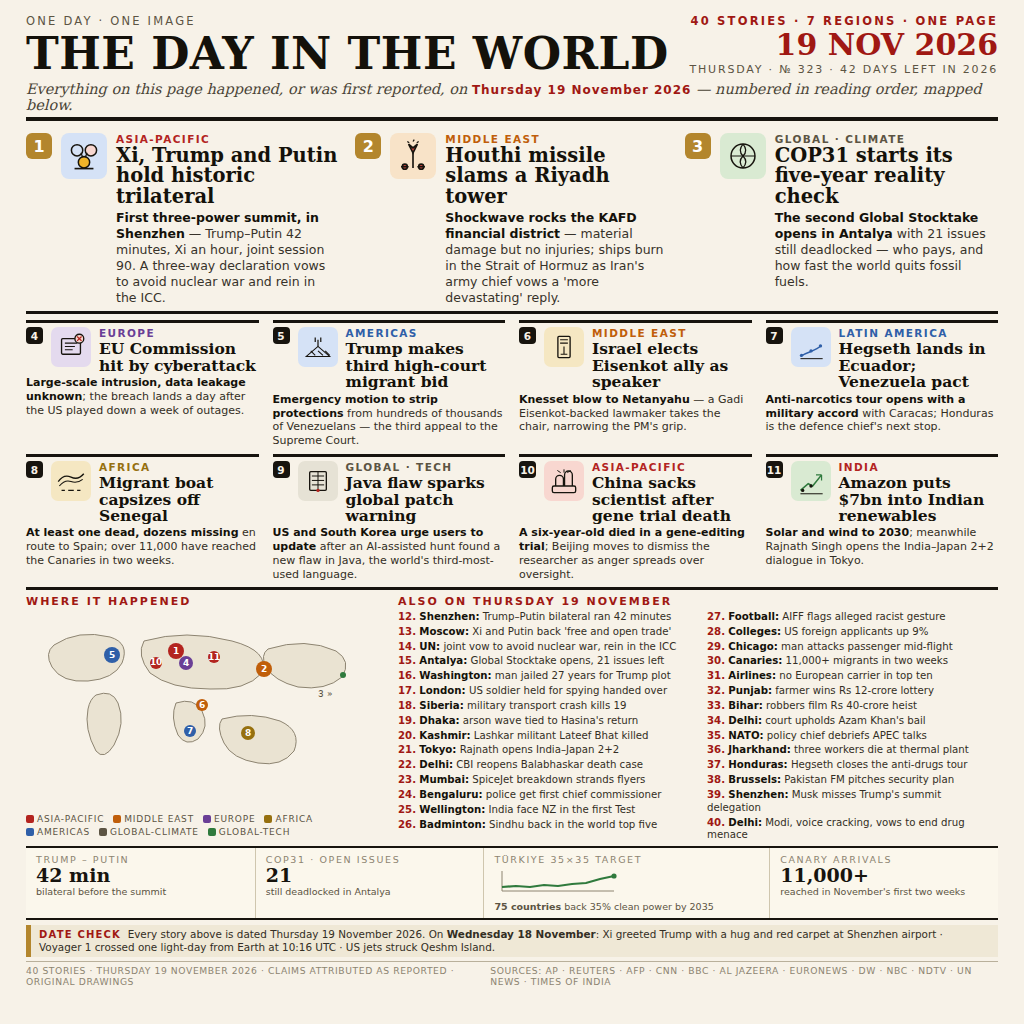
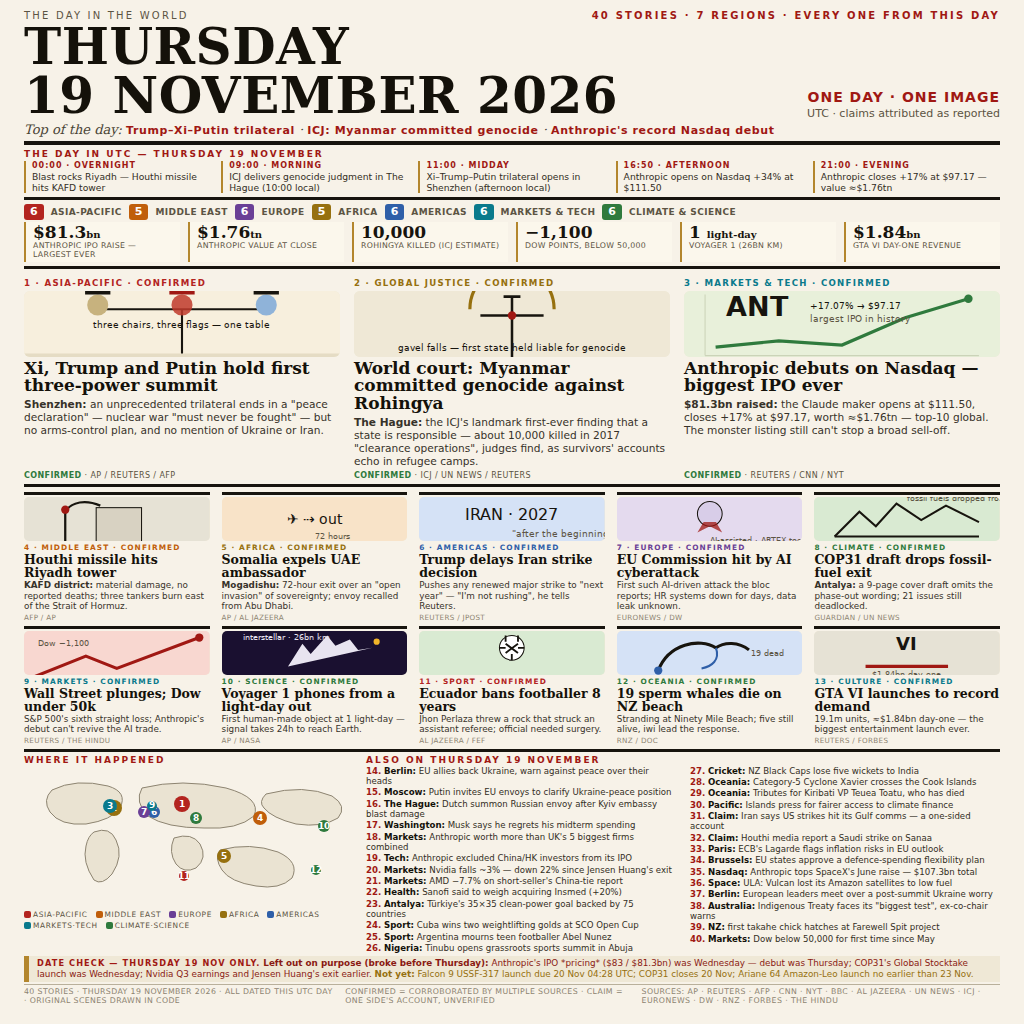
Rebuild entry with the day-discipline playbook: scene illustrations, UTC time strip, region-count strip, CONFIRMED/CLAIM trust tags, DATE CHECK box with left-out + not-yet lists; add ICJ genocide ruling, Anthropic IPO, Somalia-UAE expulsion, GTA VI, Wall St, Voyager, EU AI cyberattack, COP31 fossil-

diff --git a/design/news.html b/design/news.html
@@ -2,138 +2,283 @@
 <html lang="en">
 <head>
 <meta charset="utf-8">
-<title>The Day In The World — 19 Nov 2026</title>
+<title>The Day In The World — Thursday 19 November 2026</title>
 <style>
 *{margin:0;padding:0;box-sizing:border-box}
 html,body{width:1024px;height:1024px;overflow:hidden}
 body{font-family:'Liberation Serif',Georgia,'Times New Roman',serif;background:#f7f2e8;color:#14110a}
-.page{width:1024px;padding:14px 26px 6px}
+.page{width:1024px;padding:10px 24px 4px}
 
 .mast{border-bottom:4px solid #17140e;padding-bottom:4px}
-.kicker-row{display:flex;justify-content:space-between;align-items:baseline;font-family:'Liberation Sans',Arial,sans-serif;font-size:11.5px;letter-spacing:2.2px;color:#5c5443;text-transform:uppercase;margin-bottom:2px}
-.kicker-row b{color:#a01813}
-.title-row{display:flex;justify-content:space-between;align-items:flex-end}
-h1{font-size:44px;line-height:1;letter-spacing:.5px;font-weight:700}
-.dateline{text-align:right}
-.dateline .d1{font-size:30px;font-weight:700;color:#a01813;line-height:1}
-.dateline .d2{font-family:'Liberation Sans',Arial,sans-serif;font-size:11px;letter-spacing:1.8px;color:#5c5443;text-transform:uppercase;margin-top:3px}
-.subline{margin-top:5px;font-style:italic;font-size:14.5px;color:#4a4436}
-.subline b{color:#a01813;font-style:normal;letter-spacing:1px;font-family:'Liberation Sans',Arial,sans-serif;font-size:12px}
+.kicker{display:flex;justify-content:space-between;align-items:baseline;font-family:'Liberation Sans',Arial,sans-serif;font-size:10px;letter-spacing:2.2px;color:#5c5443;text-transform:uppercase;margin-bottom:1px}
+.kicker b{color:#a01813}
+h1{font-size:50px;line-height:.98;letter-spacing:.5px;font-weight:800}
+.dateline{font-size:14px;font-weight:700;color:#a01813;letter-spacing:1px;font-family:'Liberation Sans',Arial,sans-serif}
+.subline{margin-top:2px;font-style:italic;font-size:13px;color:#4a4436}
+.subline b{color:#a01813;font-style:normal;font-family:'Liberation Sans',Arial,sans-serif;font-size:11px;letter-spacing:.6px}
 
-.leads{display:grid;grid-template-columns:1fr 1fr 1fr;gap:0 16px;margin-top:6px;padding:6px 0 5px;border-bottom:3px solid #17140e}
-.lead{display:flex;gap:9px;align-items:flex-start}
-.lead .num{flex:0 0 26px;height:26px;background:#b3862d;color:#fff;border-radius:6px;display:flex;align-items:center;justify-content:center;font-family:'Liberation Sans',Arial,sans-serif;font-size:16px;font-weight:700}
-.lead .ico{flex:0 0 46px;height:46px;border-radius:8px;display:flex;align-items:center;justify-content:center}
-.lead .txt{flex:1;min-width:0}
-.lead h2{font-size:19.5px;line-height:1.05;margin:1px 0 3px;font-weight:700}
-.lead .body{font-family:'Liberation Sans',Arial,sans-serif;font-size:12.5px;line-height:1.28;color:#37322a}
-.lead .body b{color:#14110a}
+.utc{margin-top:4px;border-bottom:3px solid #17140e;padding-bottom:4px}
+.utc .lbl{font-family:'Liberation Sans',Arial,sans-serif;font-size:9px;font-weight:700;letter-spacing:2px;color:#a01813;text-transform:uppercase;margin-bottom:2px}
+.utc .slots{display:grid;grid-template-columns:repeat(5,1fr);gap:0 10px}
+.utc .slot{font-family:'Liberation Sans',Arial,sans-serif;font-size:9.2px;line-height:1.2;color:#332e24;border-left:2px solid #b3862d;padding-left:6px}
+.utc .slot b{display:block;font-size:8px;letter-spacing:1px;text-transform:uppercase;color:#a01813}
 
-.tag{font-family:'Liberation Sans',Arial,sans-serif;font-size:10.5px;font-weight:700;letter-spacing:1.4px;text-transform:uppercase}
-.r-apac{color:#b3241f}.r-mideast{color:#c05e0a}.r-europe{color:#6a3f96}.r-africa{color:#96700f}.r-americas{color:#2f5fa8}.r-global{color:#5c5443}.r-space{color:#2f7a3d}
+.region{margin-top:4px;border-bottom:3px solid #17140e;padding-bottom:4px}
+.region .row{display:flex;align-items:baseline;gap:7px;margin-bottom:2px;font-family:'Liberation Sans',Arial,sans-serif;flex-wrap:wrap}
+.region .cnt{font-size:11px;font-weight:700;padding:0 6px;border-radius:3px;color:#fff;line-height:1.5}
+.region .cnt.a{background:#b3241f}.region .cnt.b{background:#c05e0a}.region .cnt.c{background:#6a3f96}.region .cnt.d{background:#96700f}.region .cnt.e{background:#2f5fa8}.region .cnt.f{background:#0a7a8c}.region .cnt.g{background:#2f7a3d}
+.region .nm{font-size:9px;letter-spacing:.4px;color:#5c5443;text-transform:uppercase;font-weight:700}
+.bignums{display:grid;grid-template-columns:repeat(6,1fr);gap:0 8px}
+.big{padding:2px 7px 2px;background:#fbf7ec;border-left:2px solid #b3862d}
+.big .v{font-size:17px;font-weight:800;line-height:1;color:#17140e}
+.big .v small{font-size:10px;font-weight:700}
+.big .c{font-family:'Liberation Sans',Arial,sans-serif;font-size:7.8px;color:#5c5443;line-height:1.12;margin-top:1px;text-transform:uppercase;letter-spacing:.3px}
 
-.grid{display:grid;grid-template-columns:1fr 1fr 1fr 1fr;gap:6px 14px;margin-top:6px;align-content:start}
-.story{border-top:3px solid #17140e;padding-top:4px}
-.story .head{display:flex;gap:8px;align-items:flex-start}
-.story .num{flex:0 0 17px;height:17px;background:#17140e;color:#f7f2e8;border-radius:4px;display:flex;align-items:center;justify-content:center;font-family:'Liberation Sans',Arial,sans-serif;font-size:10.5px;font-weight:700}
-.story .ico{flex:0 0 40px;height:40px;border-radius:7px;display:flex;align-items:center;justify-content:center}
-.story .txt{flex:1;min-width:0}
-.story h2{font-size:15.5px;line-height:1.06;margin:2px 0 2px;font-weight:700}
-.story .body{font-family:'Liberation Sans',Arial,sans-serif;font-size:11px;line-height:1.26;color:#332e24}
-.story .body b{color:#14110a}
+.heros{display:grid;grid-template-columns:1fr 1fr 1fr;gap:0 14px;margin-top:5px;padding:4px 0 4px;border-bottom:3px solid #17140e}
+.hero{display:flex;flex-direction:column;gap:3px;min-width:0}
+.hero .tag{font-family:'Liberation Sans',Arial,sans-serif;font-size:8.6px;font-weight:700;letter-spacing:1.3px;text-transform:uppercase}
+.hero .scene{height:66px;border-radius:6px;overflow:hidden;background:#efe8d6}
+.hero h2{font-size:17px;line-height:1.04;font-weight:800}
+.hero .body{font-family:'Liberation Sans',Arial,sans-serif;font-size:10.6px;line-height:1.24;color:#37322a}
+.hero .trust{margin-top:auto;font-family:'Liberation Sans',Arial,sans-serif;font-size:8px;letter-spacing:.4px;color:#5c5443;text-transform:uppercase}
+.hero .trust b{color:#2f7a3d}
+.tag.a{color:#b3241f}.tag.b{color:#c05e0a}.tag.c{color:#6a3f96}.tag.d{color:#96700f}.tag.e{color:#2f5fa8}.tag.f{color:#0a7a8c}.tag.g{color:#2f7a3d}
 
-.bottom{display:grid;grid-template-columns:356px 1fr;gap:16px;margin-top:5px;border-top:3px solid #17140e;padding-top:5px}
-.mapbox .label,.also .label{font-family:'Liberation Sans',Arial,sans-serif;font-size:11px;font-weight:700;letter-spacing:2px;color:#a01813;text-transform:uppercase;margin-bottom:3px}
-.legend{display:flex;flex-wrap:wrap;gap:3px 9px;margin-top:3px;font-family:'Liberation Sans',Arial,sans-serif;font-size:9px;letter-spacing:.8px;text-transform:uppercase;color:#5c5443}
-.legend i{display:inline-block;width:8px;height:8px;border-radius:2px;margin-right:3px;vertical-align:-1px}
-.also .cols{columns:2;column-gap:18px}
-.also .item{font-family:'Liberation Sans',Arial,sans-serif;font-size:10.2px;line-height:1.26;color:#332e24;margin-bottom:2px;break-inside:avoid}
-.also .item b{color:#14110a}
-.also .item .n{color:#a01813;font-weight:700}
+.mediums{display:grid;grid-template-columns:1fr 1fr 1fr 1fr 1fr;gap:4px 12px;margin-top:5px;align-content:start}
+.med{border-top:3px solid #17140e;padding-top:2px}
+.med .scene{height:44px;border-radius:5px;background:#efe8d6;overflow:hidden;margin-bottom:2px}
+.med .tag{font-family:'Liberation Sans',Arial,sans-serif;font-size:7.4px;font-weight:700;letter-spacing:1.1px;text-transform:uppercase}
+.med h2{font-size:12.5px;line-height:1.04;font-weight:800;margin:1px 0}
+.med .body{font-family:'Liberation Sans',Arial,sans-serif;font-size:8.8px;line-height:1.2;color:#37322a}
+.med .src{font-family:'Liberation Sans',Arial,sans-serif;font-size:7.2px;color:#8d8471;text-transform:uppercase;letter-spacing:.3px;margin-top:1px}
 
-.data{display:grid;grid-template-columns:1fr 1fr 1.25fr 1fr;gap:0;margin-top:4px;border-top:2.5px solid #17140e;border-bottom:2.5px solid #17140e;background:#fbf7ec}
-.cell{padding:6px 10px 5px;border-left:1.5px solid #cfc6ae}
-.cell:first-child{border-left:none}
-.cell .cl{font-family:'Liberation Sans',Arial,sans-serif;font-size:9.5px;letter-spacing:1.6px;text-transform:uppercase;color:#8d8471;margin-bottom:1px}
-.cell .cv{font-size:19px;font-weight:700;line-height:1;color:#17140e}
-.cell .cs{font-family:'Liberation Sans',Arial,sans-serif;font-size:9.5px;color:#5c5443;line-height:1.2;margin-top:1px}
+.bottom{display:grid;grid-template-columns:330px 1fr;gap:12px;margin-top:4px;border-top:3px solid #17140e;padding-top:3px}
+.label{font-family:'Liberation Sans',Arial,sans-serif;font-size:9px;font-weight:700;letter-spacing:2px;color:#a01813;text-transform:uppercase;margin-bottom:1px}
+.legend{display:flex;flex-wrap:wrap;gap:2px 8px;margin-top:2px;font-family:'Liberation Sans',Arial,sans-serif;font-size:7.4px;letter-spacing:.6px;text-transform:uppercase;color:#5c5443}
+.legend i{display:inline-block;width:7px;height:7px;border-radius:2px;margin-right:2px;vertical-align:-1px}
+.list .cols{columns:2;column-gap:14px}
+.list .item{font-family:'Liberation Sans',Arial,sans-serif;font-size:8.6px;line-height:1.2;color:#332e24;margin-bottom:1px;break-inside:avoid}
+.list .item b{color:#14110a}
+.list .item .n{color:#a01813;font-weight:700}
 
-.datecheck{margin-top:5px;background:#efe8d6;border-left:5px solid #b3862d;padding:3px 10px 3px 8px;font-family:'Liberation Sans',Arial,sans-serif;font-size:10.4px;line-height:1.25;color:#332e24}
-.datecheck b.dc{color:#a01813;letter-spacing:1.2px;text-transform:uppercase;font-size:10px}
-.foot{display:flex;justify-content:space-between;gap:12px;margin-top:4px;padding-top:3px;border-top:1.5px solid #b9b09b;font-family:'Liberation Sans',Arial,sans-serif;font-size:9.2px;letter-spacing:.6px;color:#8d8471;text-transform:uppercase}
-
-.red{background:#f8d7d0}.blue{background:#d5e2f6}.green{background:#d9ead2}.gold{background:#f5e7c2}.grey{background:#e6e2d5}.violet{background:#e4daee}.orange{background:#f8e3c8}
+.datecheck{margin-top:3px;background:#efe8d6;border-left:5px solid #b3862d;padding:2px 10px 2px 8px;font-family:'Liberation Sans',Arial,sans-serif;font-size:8.8px;line-height:1.22;color:#332e24}
+.datecheck b.dc{color:#a01813;letter-spacing:1.1px;text-transform:uppercase;font-size:8.2px}
+.datecheck .lo{color:#8a1a13}.datecheck .ny{color:#96700f}
+.foot{display:flex;justify-content:space-between;gap:10px;margin-top:2px;padding-top:2px;border-top:1.5px solid #b9b09b;font-family:'Liberation Sans',Arial,sans-serif;font-size:7.8px;letter-spacing:.4px;color:#8d8471;text-transform:uppercase}
 </style>
 </head>
 <body>
 <div class="page">
+
   <div class="mast">
-    <div class="kicker-row"><span>One day &middot; One image</span><span><b>40 stories &middot; 7 regions &middot; one page</b></span></div>
-    <div class="title-row"><h1>THE DAY IN THE WORLD</h1><div class="dateline"><div class="d1">19 NOV 2026</div><div class="d2">Thursday &middot; &numero;&nbsp;323 &middot; 42 days left in 2026</div></div></div>
-    <div class="subline">Everything on this page happened, or was first reported, on <b>Thursday 19 November 2026</b> &mdash; numbered in reading order, mapped below.</div>
+    <div class="kicker"><span>THE DAY IN THE WORLD</span><span><b>40 STORIES · 7 REGIONS · EVERY ONE FROM THIS DAY</b></span></div>
+    <div style="display:flex;justify-content:space-between;align-items:flex-end">
+      <h1>THURSDAY<br>19 NOVEMBER 2026</h1>
+      <div style="text-align:right">
+        <div class="dateline">ONE DAY · ONE IMAGE</div>
+        <div style="font-family:'Liberation Sans',Arial,sans-serif;font-size:11px;color:#5c5443;margin-top:2px">UTC · claims attributed as reported</div>
+      </div>
+    </div>
+    <div class="subline">Top of the day: <b>Trump–Xi–Putin trilateral</b> · <b>ICJ: Myanmar committed genocide</b> · <b>Anthropic's record Nasdaq debut</b></div>
   </div>
 
-  <div class="leads">
-    <div class="lead"><div class="num">1</div><div class="ico blue"><svg width="34" height="34" viewBox="0 0 54 54"><g fill="none" stroke="#17140e" stroke-width="2.4"><circle cx="16" cy="18" r="9" fill="#d5e2f6"/><circle cx="38" cy="18" r="9" fill="#f8d7d0"/><circle cx="27" cy="37" r="9" fill="#f0b429"/><path d="M22 22 L25 29 M32 22 L29 29" stroke-width="2"/><path d="M12 47 L42 47" stroke-width="2.6"/></g></svg></div><div class="txt"><div class="tag r-apac">Asia-Pacific</div><h2>Xi, Trump and Putin hold historic trilateral</h2><div class="body"><b>First three-power summit, in Shenzhen</b> &mdash; Trump&ndash;Putin 42 minutes, Xi an hour, joint session 90. A three-way declaration vows to avoid nuclear war and rein in the ICC.</div></div></div>
-    <div class="lead"><div class="num">2</div><div class="ico orange"><svg width="34" height="34" viewBox="0 0 54 54"><g fill="none" stroke="#17140e" stroke-width="2.6"><path d="M27 46 L27 22"/><path d="M27 22 L20 8 L27 14 L34 8 Z" fill="#d64a41"/><circle cx="14" cy="44" r="4" fill="#d64a41"/><circle cx="40" cy="44" r="4" fill="#d64a41"/><path d="M8 44 L20 44 M34 44 L46 44"/><path d="M27 4 L29 1 M33 6 L36 4 M21 6 L18 4" stroke-width="2"/></g></svg></div><div class="txt"><div class="tag r-mideast">Middle East</div><h2>Houthi missile slams a Riyadh tower</h2><div class="body"><b>Shockwave rocks the KAFD financial district</b> &mdash; material damage but no injuries; ships burn in the Strait of Hormuz as Iran's army chief vows a 'more devastating' reply.</div></div></div>
-    <div class="lead"><div class="num">3</div><div class="ico green"><svg width="34" height="34" viewBox="0 0 54 54"><g fill="none" stroke="#17140e" stroke-width="2.4"><circle cx="27" cy="27" r="19"/><path d="M27 8 C33 15 33 21 27 27 C21 33 21 39 27 46" stroke-width="2"/><path d="M27 8 C21 15 21 21 27 27 C33 33 33 39 27 46" stroke-width="2"/><path d="M8 27 L46 27" stroke-width="1.6"/></g></svg></div><div class="txt"><div class="tag r-global">Global &middot; climate</div><h2>COP31 starts its five-year reality check</h2><div class="body"><b>The second Global Stocktake opens in Antalya</b> with 21 issues still deadlocked &mdash; who pays, and how fast the world quits fossil fuels.</div></div></div>
+  <div class="utc">
+    <div class="lbl">THE DAY IN UTC — Thursday 19 November</div>
+    <div class="slots">
+      <div class="slot"><b>00:00 · overnight</b>Blast rocks Riyadh — Houthi missile hits KAFD tower</div>
+      <div class="slot"><b>09:00 · morning</b>ICJ delivers genocide judgment in The Hague (10:00 local)</div>
+      <div class="slot"><b>11:00 · midday</b>Xi–Trump–Putin trilateral opens in Shenzhen (afternoon local)</div>
+      <div class="slot"><b>16:50 · afternoon</b>Anthropic opens on Nasdaq +34% at $111.50</div>
+      <div class="slot"><b>21:00 · evening</b>Anthropic closes +17% at $97.17 — value ≈$1.76tn</div>
+    </div>
   </div>
 
-  <div class="grid">
-    <div class="story"><div class="head"><div class="num">4</div><div class="ico violet"><svg width="30" height="30" viewBox="0 0 54 54"><g fill="none" stroke="#17140e" stroke-width="2.4"><rect x="10" y="12" width="34" height="28" rx="2" fill="#e4daee"/><path d="M16 20 L38 20 M16 26 L34 26 M16 32 L30 32" stroke-width="2"/><circle cx="42" cy="12" r="8" fill="#f8d7d0"/><path d="M38 8 L46 16 M46 8 L38 16" stroke="#b3241f" stroke-width="2.2"/></g></svg></div><div class="txt"><div class="tag r-europe">Europe</div><h2>EU Commission hit by cyberattack</h2></div></div><div class="body"><b>Large-scale intrusion, data leakage unknown</b>; the breach lands a day after the US played down a week of outages.</div></div>
-    <div class="story"><div class="head"><div class="num">5</div><div class="ico blue"><svg width="30" height="30" viewBox="0 0 54 54"><g fill="none" stroke="#17140e" stroke-width="2.4"><path d="M6 44 L27 26 L48 44 Z" stroke-width="2"/><path d="M14 34 L22 42 M27 34 L36 42 M40 34 L48 42" stroke-width="2"/><path d="M27 26 L27 14 M22 18 L22 10 M32 18 L32 10" stroke-width="2.2"/></g></svg></div><div class="txt"><div class="tag r-americas">Americas</div><h2>Trump makes third high-court migrant bid</h2></div></div><div class="body"><b>Emergency motion to strip protections</b> from hundreds of thousands of Venezuelans &mdash; the third appeal to the Supreme Court.</div></div>
-    <div class="story"><div class="head"><div class="num">6</div><div class="ico gold"><svg width="30" height="30" viewBox="0 0 54 54"><g fill="none" stroke="#17140e" stroke-width="2.4"><rect x="16" y="8" width="22" height="38" rx="2" fill="#f5e7c2"/><path d="M20 14 L34 14 M20 20 L34 20" stroke-width="2"/><path d="M27 26 L27 40 M21 40 L33 40" stroke-width="2"/></g></svg></div><div class="txt"><div class="tag r-mideast">Middle East</div><h2>Israel elects Eisenkot ally as speaker</h2></div></div><div class="body"><b>Knesset blow to Netanyahu</b> &mdash; a Gadi Eisenkot-backed lawmaker takes the chair, narrowing the PM's grip.</div></div>
-    <div class="story"><div class="head"><div class="num">7</div><div class="ico blue"><svg width="30" height="30" viewBox="0 0 54 54"><g fill="none" stroke="#17140e" stroke-width="2.4"><path d="M6 40 L20 28 L30 34 L48 14" stroke-width="0"/><path d="M8 44 C22 34 34 36 46 24" stroke="#2f5fa8" stroke-width="2.6"/><circle cx="10" cy="42" r="3" fill="#2f5fa8" stroke="none"/><circle cx="27" cy="34" r="3" fill="#2f5fa8" stroke="none"/><circle cx="44" cy="25" r="3" fill="#2f5fa8" stroke="none"/><path d="M8 48 L48 48" stroke-width="1.8"/></g></svg></div><div class="txt"><div class="tag r-americas">Latin America</div><h2>Hegseth lands in Ecuador; Venezuela pact</h2></div></div><div class="body"><b>Anti-narcotics tour opens with a military accord</b> with Caracas; Honduras is the defence chief's next stop.</div></div>
-    <div class="story"><div class="head"><div class="num">8</div><div class="ico gold"><svg width="30" height="30" viewBox="0 0 54 54"><g fill="none" stroke="#17140e" stroke-width="2.4"><path d="M4 28 Q14 14 27 20 Q40 26 50 14" stroke-width="2.4"/><path d="M6 36 Q16 24 27 28 Q38 32 48 24" stroke-width="2"/><path d="M10 44 L16 44 M22 44 L32 44 M38 44 L44 44" stroke-width="2.2"/></g></svg></div><div class="txt"><div class="tag r-africa">Africa</div><h2>Migrant boat capsizes off Senegal</h2></div></div><div class="body"><b>At least one dead, dozens missing</b> en route to Spain; over 11,000 have reached the Canaries in two weeks.</div></div>
-    <div class="story"><div class="head"><div class="num">9</div><div class="ico grey"><svg width="30" height="30" viewBox="0 0 54 54"><g fill="none" stroke="#17140e" stroke-width="2.4"><rect x="12" y="10" width="30" height="34" rx="2" fill="#e6e2d5"/><path d="M27 10 L27 44 M16 18 L38 18 M16 26 L38 26 M16 34 L38 34" stroke-width="1.8"/><circle cx="27" cy="44" r="3" fill="#b3241f" stroke="none"/></g></svg></div><div class="txt"><div class="tag r-global">Global &middot; tech</div><h2>Java flaw sparks global patch warning</h2></div></div><div class="body"><b>US and South Korea urge users to update</b> after an AI-assisted hunt found a new flaw in Java, the world's third-most-used language.</div></div>
-    <div class="story"><div class="head"><div class="num">10</div><div class="ico red"><svg width="30" height="30" viewBox="0 0 54 54"><g fill="none" stroke="#17140e" stroke-width="2.4"><rect x="6" y="36" width="42" height="12" rx="3"/><path d="M12 36 L12 24 A7 7 0 0 1 26 24 L26 36 M28 36 L28 16 A7 7 0 0 1 42 16 L42 36"/><path d="M27 12 L27 6 M21 12 L15 8 M33 12 L39 8" stroke-width="1.8"/></g></svg></div><div class="txt"><div class="tag r-apac">Asia-Pacific</div><h2>China sacks scientist after gene trial death</h2></div></div><div class="body"><b>A six-year-old died in a gene-editing trial</b>; Beijing moves to dismiss the researcher as anger spreads over oversight.</div></div>
-    <div class="story"><div class="head"><div class="num">11</div><div class="ico green"><svg width="30" height="30" viewBox="0 0 54 54"><g fill="none" stroke="#17140e" stroke-width="2.4"><path d="M8 44 L22 32 L30 36 L46 16" stroke="#2f7a3d" stroke-width="2.8"/><path d="M46 16 L46 26 M46 16 L36 16" stroke="#2f7a3d" stroke-width="2.2"/><circle cx="12" cy="44" r="3" fill="#17140e" stroke="none"/><circle cx="27" cy="36" r="3" fill="#17140e" stroke="none"/><path d="M8 50 L48 50" stroke-width="1.8"/></g></svg></div><div class="txt"><div class="tag r-apac">India</div><h2>Amazon puts $7bn into Indian renewables</h2></div></div><div class="body"><b>Solar and wind to 2030</b>; meanwhile Rajnath Singh opens the India&ndash;Japan 2+2 dialogue in Tokyo.</div></div>
+  <div class="region">
+    <div class="row"><span class="cnt a">6</span><span class="nm">Asia-Pacific</span><span class="cnt b">5</span><span class="nm">Middle East</span><span class="cnt c">6</span><span class="nm">Europe</span><span class="cnt d">5</span><span class="nm">Africa</span><span class="cnt e">6</span><span class="nm">Americas</span><span class="cnt f">6</span><span class="nm">Markets &amp; Tech</span><span class="cnt g">6</span><span class="nm">Climate &amp; Science</span></div>
+    <div class="bignums">
+      <div class="big"><div class="v">$81.3<small>bn</small></div><div class="c">Anthropic IPO raise — largest ever</div></div>
+      <div class="big"><div class="v">$1.76<small>tn</small></div><div class="c">Anthropic value at close</div></div>
+      <div class="big"><div class="v">10,000</div><div class="c">Rohingya killed (ICJ estimate)</div></div>
+      <div class="big"><div class="v">−1,100</div><div class="c">Dow points, below 50,000</div></div>
+      <div class="big"><div class="v">1 <small>light-day</small></div><div class="c">Voyager 1 (26bn km)</div></div>
+      <div class="big"><div class="v">$1.84<small>bn</small></div><div class="c">GTA VI day-one revenue</div></div>
+    </div>
+  </div>
+
+  <div class="heros">
+    <div class="hero">
+      <div class="tag a">1 · Asia-Pacific · CONFIRMED</div>
+      <div class="scene"><svg viewBox="0 0 300 96" width="100%" height="100%" preserveAspectRatio="xMidYMid slice"><rect width="300" height="96" fill="#f7efdd"/><rect x="0" y="76" width="300" height="20" fill="#e5dcc4"/><g stroke="#17140e" stroke-width="2"><line x1="150" y1="34" x2="150" y2="76"/><line x1="70" y1="34" x2="230" y2="34"/></g><circle cx="70" cy="30" r="10" fill="#c7b27e"/><circle cx="150" cy="30" r="10" fill="#c0392b" opacity=".85"/><circle cx="230" cy="30" r="10" fill="#8fb3d9"/><rect x="58" y="12" width="24" height="8" fill="#17140e"/><rect x="138" y="12" width="24" height="8" fill="#a01813"/><rect x="218" y="12" width="24" height="8" fill="#17140e"/><text x="150" y="52" font-family="Arial" font-size="9" text-anchor="middle" fill="#17140e">three chairs, three flags — one table</text></svg></div>
+      <h2>Xi, Trump and Putin hold first three-power summit</h2>
+      <div class="body"><b>Shenzhen:</b> an unprecedented trilateral ends in a "peace declaration" — nuclear war "must never be fought" — but no arms-control plan, and no mention of Ukraine or Iran.</div>
+      <div class="trust"><b>CONFIRMED</b> · AP / Reuters / AFP</div>
+    </div>
+    <div class="hero">
+      <div class="tag d">2 · Global justice · CONFIRMED</div>
+      <div class="scene"><svg viewBox="0 0 300 96" width="100%" height="100%" preserveAspectRatio="xMidYMid slice"><rect width="300" height="96" fill="#efe8d6"/><g stroke="#17140e" stroke-width="2.4" fill="none"><path d="M30 88 L270 88"/><path d="M150 88 L150 40"/><path d="M120 40 L180 40"/><path d="M150 40 L150 22 M142 22 L158 22"/></g><circle cx="150" cy="40" r="4" fill="#a01813"/><path d="M110 34 A40 40 0 0 1 190 34" stroke="#96700f" stroke-width="3" fill="none"/><text x="150" y="74" font-family="Arial" font-size="9" text-anchor="middle" fill="#17140e">gavel falls — first state held liable for genocide</text></svg></div>
+      <h2>World court: Myanmar committed genocide against Rohingya</h2>
+      <div class="body"><b>The Hague:</b> the ICJ's landmark first-ever finding that a state is responsible — about 10,000 killed in 2017 "clearance operations", judges find, as survivors' accounts echo in refugee camps.</div>
+      <div class="trust"><b>CONFIRMED</b> · ICJ / UN News / Reuters</div>
+    </div>
+    <div class="hero">
+      <div class="tag f">3 · Markets &amp; Tech · CONFIRMED</div>
+      <div class="scene"><svg viewBox="0 0 300 96" width="100%" height="100%" preserveAspectRatio="xMidYMid slice"><rect width="300" height="96" fill="#e8f0da"/><g stroke="#cbd3b8" stroke-width="1"><line x1="20" y1="78" x2="280" y2="78"/><line x1="20" y1="20" x2="20" y2="78"/></g><path d="M30 70 L90 64 L150 68 L210 42 L270 24" stroke="#2f7a3d" stroke-width="3" fill="none"/><circle cx="270" cy="24" r="4" fill="#2f7a3d"/><text x="40" y="40" font-family="Arial" font-size="26" font-weight="bold" fill="#17140e">ANT</text><text x="120" y="34" font-family="Arial" font-size="9" fill="#17140e">+17.07% → $97.17</text><text x="120" y="46" font-family="Arial" font-size="9" fill="#5c5443">largest IPO in history</text></svg></div>
+      <h2>Anthropic debuts on Nasdaq — biggest IPO ever</h2>
+      <div class="body"><b>$81.3bn raised:</b> the Claude maker opens at $111.50, closes +17% at $97.17, worth ≈$1.76tn — top-10 global. The monster listing still can't stop a broad sell-off.</div>
+      <div class="trust"><b>CONFIRMED</b> · Reuters / CNN / NYT</div>
+    </div>
+  </div>
+
+  <div class="mediums">
+    <div class="med">
+      <div class="scene"><svg viewBox="0 0 180 54" width="100%" height="100%" preserveAspectRatio="xMidYMid slice"><rect width="180" height="54" fill="#e6e2d5"/><rect x="70" y="16" width="44" height="34" fill="#d8d2c2" stroke="#17140e"/><path d="M74 14 C60 8 46 10 40 20 L40 50" stroke="#17140e" stroke-width="2.2" fill="none"/><circle cx="40" cy="18" r="4" fill="#a01813"/></svg></div>
+      <div class="tag b">4 · Middle East · CONFIRMED</div>
+      <h2>Houthi missile hits Riyadh tower</h2>
+      <div class="body"><b>KAFD district:</b> material damage, no reported deaths; three tankers burn east of the Strait of Hormuz.</div>
+      <div class="src">AFP / AP</div>
+    </div>
+    <div class="med">
+      <div class="scene"><svg viewBox="0 0 180 54" width="100%" height="100%" preserveAspectRatio="xMidYMid slice"><rect width="180" height="54" fill="#f8e3c8"/><text x="90" y="32" font-family="Arial" font-size="14" text-anchor="middle" fill="#17140e">✈ ⇢ out</text><text x="90" y="46" font-family="Arial" font-size="8" fill="#5c5443">72 hours</text></svg></div>
+      <div class="tag d">5 · Africa · CONFIRMED</div>
+      <h2>Somalia expels UAE ambassador</h2>
+      <div class="body"><b>Mogadishu:</b> 72-hour exit over an "open invasion" of sovereignty; envoy recalled from Abu Dhabi.</div>
+      <div class="src">AP / Al Jazeera</div>
+    </div>
+    <div class="med">
+      <div class="scene"><svg viewBox="0 0 180 54" width="100%" height="100%" preserveAspectRatio="xMidYMid slice"><rect width="180" height="54" fill="#d5e2f6"/><text x="90" y="28" font-family="Arial" font-size="16" text-anchor="middle" fill="#17140e">IRAN · 2027</text><text x="90" y="44" font-family="Arial" font-size="8.5" fill="#5c5443">"after the beginning of the year"</text></svg></div>
+      <div class="tag e">6 · Americas · CONFIRMED</div>
+      <h2>Trump delays Iran strike decision</h2>
+      <div class="body">Pushes any renewed major strike to "next year" — "I'm not rushing", he tells Reuters.</div>
+      <div class="src">Reuters / JPost</div>
+    </div>
+    <div class="med">
+      <div class="scene"><svg viewBox="0 0 180 54" width="100%" height="100%" preserveAspectRatio="xMidYMid slice"><rect width="180" height="54" fill="#e4daee"/><circle cx="90" cy="22" r="12" fill="#d8cde8" stroke="#17140e"/><path d="M84 30 L78 40 L90 34 L102 40 L96 30" fill="#a01813" opacity=".75"/><text x="90" y="50" font-family="Arial" font-size="8" fill="#5c5443">AI-assisted · ARTEX tool</text></svg></div>
+      <div class="tag c">7 · Europe · CONFIRMED</div>
+      <h2>EU Commission hit by AI cyberattack</h2>
+      <div class="body">First such AI-driven attack the bloc reports; HR systems down for days, data leak unknown.</div>
+      <div class="src">Euronews / DW</div>
+    </div>
+    <div class="med">
+      <div class="scene"><svg viewBox="0 0 180 54" width="100%" height="100%" preserveAspectRatio="xMidYMid slice"><rect width="180" height="54" fill="#d9ead2"/><path d="M20 44 L44 20 L60 34 L80 12 L104 28 L128 14 L160 30" stroke="#17140e" stroke-width="2" fill="none"/><path d="M20 44 L160 44" stroke="#17140e" stroke-width="2"/><text x="90" y="10" font-family="Arial" font-size="8" fill="#5c5443">fossil fuels dropped from draft</text></svg></div>
+      <div class="tag g">8 · Climate · CONFIRMED</div>
+      <h2>COP31 draft drops fossil-fuel exit</h2>
+      <div class="body"><b>Antalya:</b> a 9-page cover draft omits the phase-out wording; 21 issues still deadlocked.</div>
+      <div class="src">Guardian / UN News</div>
+    </div>
+    <div class="med">
+      <div class="scene"><svg viewBox="0 0 180 54" width="100%" height="100%" preserveAspectRatio="xMidYMid slice"><rect width="180" height="54" fill="#f8d7d0"/><path d="M10 50 L60 30 L90 42 L170 12" stroke="#a01813" stroke-width="3" fill="none"/><circle cx="170" cy="12" r="4" fill="#a01813"/><text x="14" y="20" font-family="Arial" font-size="8" fill="#5c5443">Dow −1,100</text></svg></div>
+      <div class="tag f">9 · Markets · CONFIRMED</div>
+      <h2>Wall Street plunges; Dow under 50k</h2>
+      <div class="body">S&amp;P 500's sixth straight loss; Anthropic's debut can't revive the AI trade.</div>
+      <div class="src">Reuters / The Hindu</div>
+    </div>
+    <div class="med">
+      <div class="scene"><svg viewBox="0 0 180 54" width="100%" height="100%" preserveAspectRatio="xMidYMid slice"><rect width="180" height="54" fill="#1a1030"/><polygon points="50,40 64,18 72,28 88,10 96,20 110,14 118,24 132,22" fill="#e8e4f0" transform="translate(14,0)"/><circle cx="150" cy="16" r="3" fill="#f0b429"/><text x="20" y="14" font-family="Arial" font-size="8" fill="#e8e4f0">interstellar · 26bn km</text></svg></div>
+      <div class="tag g">10 · Science · CONFIRMED</div>
+      <h2>Voyager 1 phones from a light-day out</h2>
+      <div class="body">First human-made object at 1 light-day — signal takes 24h to reach Earth.</div>
+      <div class="src">AP / NASA</div>
+    </div>
+    <div class="med">
+      <div class="scene"><svg viewBox="0 0 180 54" width="100%" height="100%" preserveAspectRatio="xMidYMid slice"><rect width="180" height="54" fill="#d9ead2"/><circle cx="90" cy="22" r="12" fill="#fff" stroke="#17140e"/><path d="M84 27 L96 18 M84 18 L96 27 M84 22 L78 22 M96 22 L102 22 M90 28 L90 34 M84 16 L84 10 M96 16 L96 10" stroke="#17140e" stroke-width="1.8"/></svg></div>
+      <div class="tag a">11 · Sport · CONFIRMED</div>
+      <h2>Ecuador bans footballer 8 years</h2>
+      <div class="body">Jhon Perlaza threw a rock that struck an assistant referee; official needed surgery.</div>
+      <div class="src">Al Jazeera / FEF</div>
+    </div>
+    <div class="med">
+      <div class="scene"><svg viewBox="0 0 180 54" width="100%" height="100%" preserveAspectRatio="xMidYMid slice"><rect width="180" height="54" fill="#d5e2f6"/><path d="M40 44 C50 18 80 12 96 22 C104 16 118 16 128 24" stroke="#17140e" stroke-width="3" fill="none"/><circle cx="40" cy="44" r="4" fill="#2f5fa8"/><path d="M96 22 C100 34 92 40 82 42" stroke="#2f5fa8" stroke-width="2" fill="none"/><text x="130" y="30" font-family="Arial" font-size="8" fill="#5c5443">19 dead</text></svg></div>
+      <div class="tag g">12 · Oceania · CONFIRMED</div>
+      <h2>19 sperm whales die on NZ beach</h2>
+      <div class="body">Stranding at Ninety Mile Beach; five still alive, iwi lead the response.</div>
+      <div class="src">RNZ / DOC</div>
+    </div>
+    <div class="med">
+      <div class="scene"><svg viewBox="0 0 180 54" width="100%" height="100%" preserveAspectRatio="xMidYMid slice"><rect width="180" height="54" fill="#e6e2d5"/><text x="90" y="24" font-family="Arial" font-size="17" font-weight="bold" text-anchor="middle" fill="#17140e">VI</text><path d="M50 40 L130 40" stroke="#a01813" stroke-width="3"/><text x="90" y="50" font-family="Arial" font-size="8" text-anchor="middle" fill="#5c5443">$1.84bn day one</text></svg></div>
+      <div class="tag f">13 · Culture · CONFIRMED</div>
+      <h2>GTA VI launches to record demand</h2>
+      <div class="body">19.1m units, ≈$1.84bn day-one — the biggest entertainment launch ever.</div>
+      <div class="src">Reuters / Forbes</div>
+    </div>
   </div>
 
   <div class="bottom">
-    <div class="mapbox"><div class="label">Where it happened</div><svg width="340" height="196" viewBox="0 0 340 196"><g stroke="#8d8471" stroke-width="1" fill="#eae3d2"><path d="M28 34 Q52 18 84 26 Q104 32 96 52 Q88 68 62 70 Q36 72 26 56 Q18 42 28 34 Z"/><path d="M70 84 Q86 78 92 92 Q100 112 88 134 Q78 150 70 140 Q58 118 62 98 Q64 88 70 84 Z"/><path d="M118 30 Q160 18 206 30 Q244 40 236 62 Q220 80 184 78 Q144 78 124 62 Q110 44 118 30 Z"/><path d="M150 92 Q168 86 176 100 Q184 116 172 128 Q160 136 152 124 Q144 106 150 92 Z"/><path d="M196 108 Q226 100 254 110 Q276 120 268 140 Q256 156 232 152 Q206 148 198 132 Q190 116 196 108 Z"/><path d="M242 38 Q280 26 310 40 Q326 50 316 66 Q300 80 272 76 Q248 70 240 56 Q234 44 242 38 Z"/></g><g font-family="Liberation Sans,Arial" font-size="9" font-weight="bold" fill="#14110a"><circle cx="150" cy="40" r="8" fill="#b3241f"/><text x="150" y="43" fill="#fff" text-anchor="middle">1</text><circle cx="238" cy="58" r="8" fill="#c05e0a"/><text x="238" y="61" fill="#fff" text-anchor="middle">2</text><circle cx="86" cy="44" r="8" fill="#2f5fa8"/><text x="86" y="47" fill="#fff" text-anchor="middle">5</text><circle cx="160" cy="52" r="7" fill="#6a3f96"/><text x="160" y="55" fill="#fff" text-anchor="middle">4</text><circle cx="130" cy="52" r="6" fill="#b3241f"/><text x="130" y="54" fill="#fff" text-anchor="middle">10</text><circle cx="188" cy="46" r="6" fill="#b3241f"/><text x="188" y="49" fill="#fff" text-anchor="middle">11</text><circle cx="176" cy="94" r="6" fill="#c05e0a"/><text x="176" y="97" fill="#fff" text-anchor="middle">6</text><circle cx="164" cy="120" r="6" fill="#2f5fa8"/><text x="164" y="123" fill="#fff" text-anchor="middle">7</text><circle cx="222" cy="122" r="7" fill="#96700f"/><text x="222" y="125" fill="#fff" text-anchor="middle">8</text></g><g font-family="Liberation Sans,Arial" font-size="9" fill="#5c5443"><text x="292" y="86">3 &raquo;</text></g><circle cx="317" cy="64" r="3" fill="#2f7a3d"/></svg><div class="legend"><span><i style="background:#b3241f"></i>Asia-Pacific</span><span><i style="background:#c05e0a"></i>Middle East</span><span><i style="background:#6a3f96"></i>Europe</span><span><i style="background:#96700f"></i>Africa</span><span><i style="background:#2f5fa8"></i>Americas</span><span><i style="background:#5c5443"></i>Global-climate</span><span><i style="background:#2f7a3d"></i>Global-tech</span></div></div>
-    <div class="also"><div class="label">Also on Thursday 19 November</div><div class="cols">
-      <div class="item"><span class="n">12.</span> <b>Shenzhen:</b> Trump&ndash;Putin bilateral ran 42 minutes</div>
-      <div class="item"><span class="n">13.</span> <b>Moscow:</b> Xi and Putin back 'free and open trade'</div>
-      <div class="item"><span class="n">14.</span> <b>UN:</b> joint vow to avoid nuclear war, rein in the ICC</div>
-      <div class="item"><span class="n">15.</span> <b>Antalya:</b> Global Stocktake opens, 21 issues left</div>
-      <div class="item"><span class="n">16.</span> <b>Washington:</b> man jailed 27 years for Trump plot</div>
-      <div class="item"><span class="n">17.</span> <b>London:</b> US soldier held for spying handed over</div>
-      <div class="item"><span class="n">18.</span> <b>Siberia:</b> military transport crash kills 19</div>
-      <div class="item"><span class="n">19.</span> <b>Dhaka:</b> arson wave tied to Hasina's return</div>
-      <div class="item"><span class="n">20.</span> <b>Kashmir:</b> Lashkar militant Lateef Bhat killed</div>
-      <div class="item"><span class="n">21.</span> <b>Tokyo:</b> Rajnath opens India&ndash;Japan 2+2</div>
-      <div class="item"><span class="n">22.</span> <b>Delhi:</b> CBI reopens Balabhaskar death case</div>
-      <div class="item"><span class="n">23.</span> <b>Mumbai:</b> SpiceJet breakdown strands flyers</div>
-      <div class="item"><span class="n">24.</span> <b>Bengaluru:</b> police get first chief commissioner</div>
-      <div class="item"><span class="n">25.</span> <b>Wellington:</b> India face NZ in the first Test</div>
-      <div class="item"><span class="n">26.</span> <b>Badminton:</b> Sindhu back in the world top five</div>
-      <div class="item"><span class="n">27.</span> <b>Football:</b> AIFF flags alleged racist gesture</div>
-      <div class="item"><span class="n">28.</span> <b>Colleges:</b> US foreign applicants up 9%</div>
-      <div class="item"><span class="n">29.</span> <b>Chicago:</b> man attacks passenger mid-flight</div>
-      <div class="item"><span class="n">30.</span> <b>Canaries:</b> 11,000+ migrants in two weeks</div>
-      <div class="item"><span class="n">31.</span> <b>Airlines:</b> no European carrier in top ten</div>
-      <div class="item"><span class="n">32.</span> <b>Punjab:</b> farmer wins Rs 12-crore lottery</div>
-      <div class="item"><span class="n">33.</span> <b>Bihar:</b> robbers film Rs 40-crore heist</div>
-      <div class="item"><span class="n">34.</span> <b>Delhi:</b> court upholds Azam Khan's bail</div>
-      <div class="item"><span class="n">35.</span> <b>NATO:</b> policy chief debriefs APEC talks</div>
-      <div class="item"><span class="n">36.</span> <b>Jharkhand:</b> three workers die at thermal plant</div>
-      <div class="item"><span class="n">37.</span> <b>Honduras:</b> Hegseth closes the anti-drugs tour</div>
-      <div class="item"><span class="n">38.</span> <b>Brussels:</b> Pakistan FM pitches security plan</div>
-      <div class="item"><span class="n">39.</span> <b>Shenzhen:</b> Musk misses Trump's summit delegation</div>
-      <div class="item"><span class="n">40.</span> <b>Delhi:</b> Modi, voice cracking, vows to end drug menace</div>
-    </div></div>
+    <div class="mapbox">
+      <div class="label">Where it happened</div>
+      <svg width="332" height="138" viewBox="0 0 332 138">
+        <g stroke="#8d8471" stroke-width="1" fill="#eae3d2">
+          <path d="M28 24 Q52 12 84 20 Q104 26 96 42 Q88 54 62 58 Q36 60 26 46 Q18 34 28 24 Z"/>
+          <path d="M70 66 Q86 60 92 74 Q100 90 88 108 Q78 120 70 114 Q58 96 62 80 Q64 70 70 66 Z"/>
+          <path d="M118 22 Q158 12 202 22 Q238 32 230 50 Q214 64 180 62 Q142 62 124 50 Q110 36 118 22 Z"/>
+          <path d="M150 72 Q168 66 176 78 Q184 92 172 102 Q160 108 152 98 Q144 86 150 72 Z"/>
+          <path d="M196 84 Q226 76 254 86 Q276 96 268 112 Q256 124 232 120 Q206 116 198 104 Q190 92 196 84 Z"/>
+          <path d="M242 28 Q280 18 308 30 Q324 40 314 52 Q298 62 272 58 Q248 52 240 42 Q234 36 242 28 Z"/>
+        </g>
+        <g font-family="Arial" font-size="8.5" font-weight="bold" fill="#14110a">
+          <circle cx="158" cy="38" r="8" fill="#b3241f"/><text x="158" y="41" fill="#fff" text-anchor="middle">1</text>
+          <circle cx="90" cy="42" r="8" fill="#96700f"/><text x="90" y="45" fill="#fff" text-anchor="middle">2</text>
+          <circle cx="86" cy="40" r="7" fill="#0a7a8c"/><text x="86" y="43" fill="#fff" text-anchor="middle">3</text>
+          <circle cx="236" cy="52" r="7" fill="#c05e0a"/><text x="236" y="55" fill="#fff" text-anchor="middle">4</text>
+          <circle cx="200" cy="90" r="7" fill="#96700f"/><text x="200" y="93" fill="#fff" text-anchor="middle">5</text>
+          <circle cx="130" cy="46" r="6" fill="#2f5fa8"/><text x="130" y="49" fill="#fff" text-anchor="middle">6</text>
+          <circle cx="120" cy="46" r="6" fill="#6a3f96"/><text x="120" y="49" fill="#fff" text-anchor="middle">7</text>
+          <circle cx="172" cy="52" r="6" fill="#2f7a3d"/><text x="172" y="55" fill="#fff" text-anchor="middle">8</text>
+          <circle cx="128" cy="40" r="5" fill="#0a7a8c"/><text x="128" y="42" fill="#fff" text-anchor="middle">9</text>
+          <circle cx="300" cy="60" r="6" fill="#2f7a3d"/><text x="300" y="63" fill="#fff" text-anchor="middle">10</text>
+          <circle cx="160" cy="110" r="5" fill="#b3241f"/><text x="160" y="113" fill="#fff" text-anchor="middle">11</text>
+          <circle cx="292" cy="104" r="5" fill="#2f7a3d"/><text x="292" y="107" fill="#fff" text-anchor="middle">12</text>
+        </g>
+      </svg>
+      <div class="legend">
+        <span><i style="background:#b3241f"></i>Asia-Pacific</span><span><i style="background:#c05e0a"></i>Middle East</span><span><i style="background:#6a3f96"></i>Europe</span><span><i style="background:#96700f"></i>Africa</span><span><i style="background:#2f5fa8"></i>Americas</span><span><i style="background:#0a7a8c"></i>Markets·Tech</span><span><i style="background:#2f7a3d"></i>Climate·Science</span>
+      </div>
+    </div>
+    <div class="list">
+      <div class="label">Also on Thursday 19 November</div>
+      <div class="cols">
+        <div class="item"><span class="n">14.</span> <b>Berlin:</b> EU allies back Ukraine, warn against peace over their heads</div>
+        <div class="item"><span class="n">15.</span> <b>Moscow:</b> Putin invites EU envoys to clarify Ukraine-peace position</div>
+        <div class="item"><span class="n">16.</span> <b>The Hague:</b> Dutch summon Russian envoy after Kyiv embassy blast damage</div>
+        <div class="item"><span class="n">17.</span> <b>Washington:</b> Musk says he regrets his midterm spending</div>
+        <div class="item"><span class="n">18.</span> <b>Markets:</b> Anthropic worth more than UK's 5 biggest firms combined</div>
+        <div class="item"><span class="n">19.</span> <b>Tech:</b> Anthropic excluded China/HK investors from its IPO</div>
+        <div class="item"><span class="n">20.</span> <b>Markets:</b> Nvidia falls ~3% — down 22% since Jensen Huang's exit</div>
+        <div class="item"><span class="n">21.</span> <b>Markets:</b> AMD −7.7% on short-seller's China-tie report</div>
+        <div class="item"><span class="n">22.</span> <b>Health:</b> Sanofi said to weigh acquiring Insmed (+20%)</div>
+        <div class="item"><span class="n">23.</span> <b>Antalya:</b> Türkiye's 35×35 clean-power goal backed by 75 countries</div>
+        <div class="item"><span class="n">24.</span> <b>Sport:</b> Cuba wins two weightlifting golds at SCO Open Cup</div>
+        <div class="item"><span class="n">25.</span> <b>Sport:</b> Argentina mourns teen footballer Abel Nunez</div>
+        <div class="item"><span class="n">26.</span> <b>Nigeria:</b> Tinubu opens grassroots sports summit in Abuja</div>
+        <div class="item"><span class="n">27.</span> <b>Cricket:</b> NZ Black Caps lose five wickets to India</div>
+        <div class="item"><span class="n">28.</span> <b>Oceania:</b> Category-5 Cyclone Xavier crosses the Cook Islands</div>
+        <div class="item"><span class="n">29.</span> <b>Oceania:</b> Tributes for Kiribati VP Teuea Toatu, who has died</div>
+        <div class="item"><span class="n">30.</span> <b>Pacific:</b> Islands press for fairer access to climate finance</div>
+        <div class="item"><span class="n">31.</span> <b>Claim:</b> Iran says US strikes hit its Gulf comms — a one-sided account</div>
+        <div class="item"><span class="n">32.</span> <b>Claim:</b> Houthi media report a Saudi strike on Sanaa</div>
+        <div class="item"><span class="n">33.</span> <b>Paris:</b> ECB's Lagarde flags inflation risks in EU outlook</div>
+        <div class="item"><span class="n">34.</span> <b>Brussels:</b> EU states approve a defence-spending flexibility plan</div>
+        <div class="item"><span class="n">35.</span> <b>Nasdaq:</b> Anthropic tops SpaceX's June raise — $107.3bn total</div>
+        <div class="item"><span class="n">36.</span> <b>Space:</b> ULA: Vulcan lost its Amazon satellites to low fuel</div>
+        <div class="item"><span class="n">37.</span> <b>Berlin:</b> European leaders meet over a post-summit Ukraine worry</div>
+        <div class="item"><span class="n">38.</span> <b>Australia:</b> Indigenous Treaty faces its "biggest test", ex-co-chair warns</div>
+        <div class="item"><span class="n">39.</span> <b>NZ:</b> first takahe chick hatches at Farewell Spit project</div>
+        <div class="item"><span class="n">40.</span> <b>Markets:</b> Dow below 50,000 for first time since May</div>
+      </div>
+    </div>
   </div>
 
-  <div class="data">
-    <div class="cell"><div class="cl">Trump &ndash; Putin</div><div class="cv">42 min</div><div class="cs">bilateral before the summit</div></div>
-    <div class="cell"><div class="cl">COP31 &middot; open issues</div><div class="cv">21</div><div class="cs">still deadlocked in Antalya</div></div>
-    <div class="cell"><div class="cl">T&uuml;rkiye 35&times;35 target</div><svg width="128" height="30" viewBox="0 0 120 30"><g fill="none" stroke="#8d8471" stroke-width="1"><path d="M4 25 L116 25"/><path d="M4 5 L4 25"/></g><path d="M4 21 L18 20 L32 21 L46 19 L60 20 L74 18 L88 17 L102 13 L116 10" fill="none" stroke="#2f7a3d" stroke-width="2.2"/><circle cx="116" cy="10" r="2.6" fill="#2f7a3d"/></svg><div class="cs"><b>75 countries</b> back 35% clean power by 2035</div></div>
-    <div class="cell"><div class="cl">Canary arrivals</div><div class="cv">11,000+</div><div class="cs">reached in November's first two weeks</div></div>
+  <div class="datecheck">
+    <b class="dc">DATE CHECK — Thursday 19 Nov only.</b>
+    <span class="lo"><b>Left out on purpose (broke before Thursday):</b> Anthropic's IPO *pricing* ($83 / $81.3bn) was Wednesday — debut was Thursday; COP31's Global Stocktake launch was Wednesday; Nvidia Q3 earnings and Jensen Huang's exit earlier.</span>
+    <span class="ny"><b>Not yet:</b> Falcon 9 USSF-317 launch due 20 Nov 04:28 UTC; COP31 closes 20 Nov; Ariane 64 Amazon-Leo launch no earlier than 23 Nov.</span>
   </div>
 
-  <div class="datecheck"><b class="dc">Date check</b> &nbsp;Every story above is dated Thursday 19 November 2026. On <b>Wednesday 18 November</b>: Xi greeted Trump with a hug and red carpet at Shenzhen airport &middot; Voyager 1 crossed one light-day from Earth at 10:16 UTC &middot; US jets struck Qeshm Island.</div>
-  <div class="foot"><span>40 stories &middot; Thursday 19 November 2026 &middot; claims attributed as reported &middot; original drawings</span><span>Sources: AP &middot; Reuters &middot; AFP &middot; CNN &middot; BBC &middot; Al Jazeera &middot; Euronews &middot; DW &middot; NBC &middot; NDTV &middot; UN News &middot; Times of India</span></div>
+  <div class="foot">
+    <span>40 stories · Thursday 19 November 2026 · all dated this UTC day · original scenes drawn in code</span>
+    <span>CONFIRMED = corroborated by multiple sources · CLAIM = one side's account, unverified</span>
+    <span>Sources: AP · Reuters · AFP · CNN · NYT · BBC · Al Jazeera · UN News · ICJ · Euronews · DW · RNZ · Forbes · The Hindu</span>
+  </div>
+
 </div>
 </body>
 </html>
